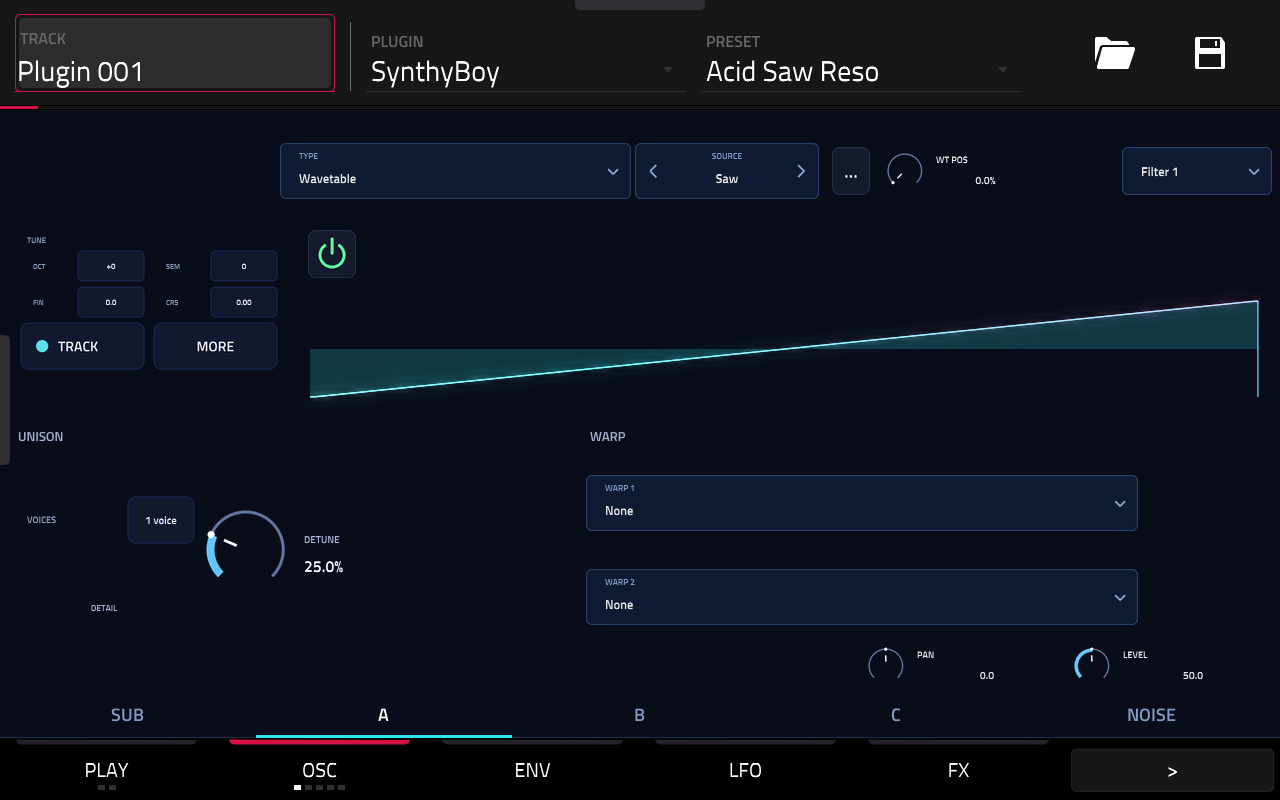
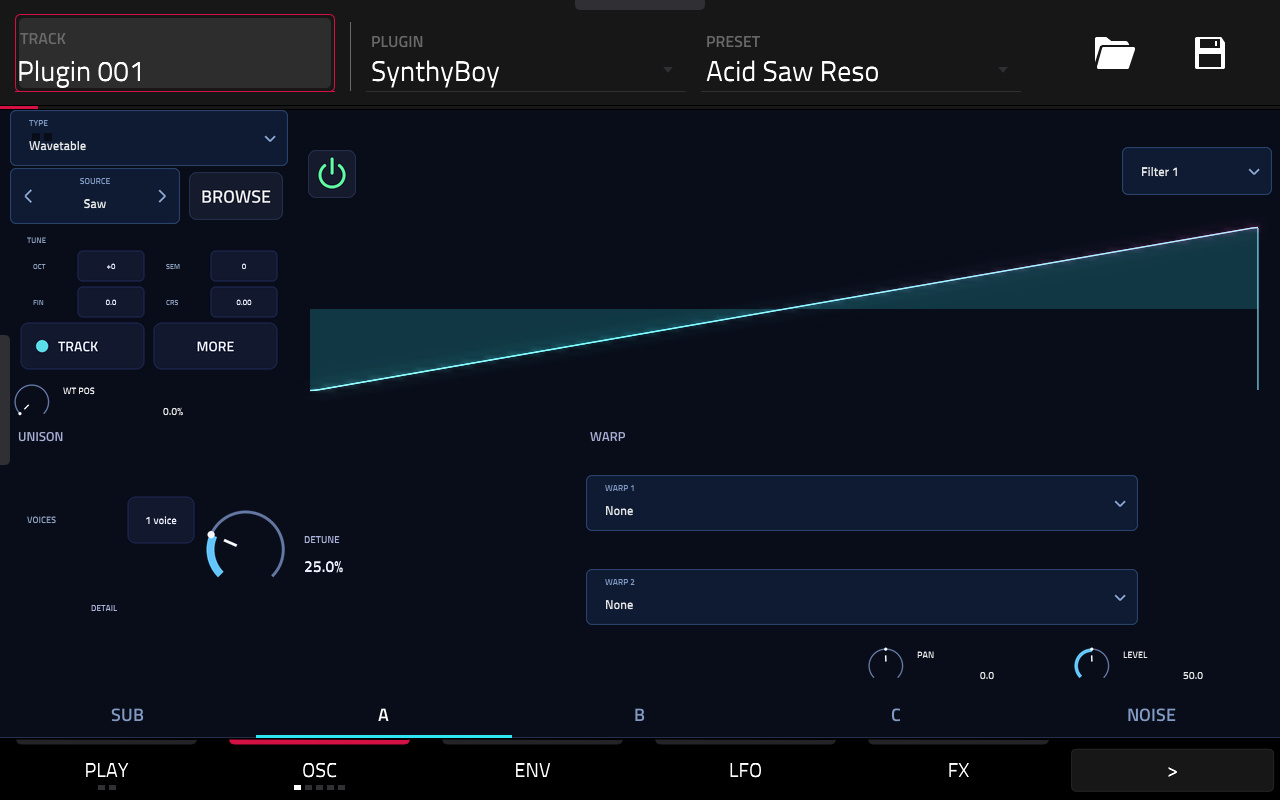
Give oscillator scopes a larger plot and expose the native Browse action on XL

diff --git a/docs/ui-components/native-katalogus.html b/docs/ui-components/native-katalogus.html
@@ -6,9 +6,9 @@
 <p>Képernyőnként egy aktuális kép. Régi referencia csak a még nyitott átállásoknál szerepel.</p>
 <section id="play"><h2>Play</h2><p>MPC Key 61 hardverfelvétel · 027c5fa8</p><div class="pair"><figure><a href="../screens/play.jpg?v=e290ac2519af"><img src="../screens/play.jpg?v=e290ac2519af" alt="Play · aktuális előnézet"></a><figcaption>Play · aktuális előnézet</figcaption></figure></div></section>
 <section id="macros"><h2>Macros</h2><p>MPC Key 61 hardverfelvétel · 027c5fa8</p><div class="pair"><figure><a href="../screens/macros.jpg?v=5f63bdc08e80"><img src="../screens/macros.jpg?v=5f63bdc08e80" alt="Macros · aktuális előnézet"></a><figcaption>Macros · aktuális előnézet</figcaption></figure></div></section>
-<section id="osc_a"><h2>Osc A</h2><p>MPC XL hardverfelvétel · Acid Saw Reso · TUI 9e935c2a39dc</p><div class="pair"><figure><a href="../screens/osc_a.jpg?v=a46313e48b12"><img src="../screens/osc_a.jpg?v=a46313e48b12" alt="Osc A · aktuális előnézet"></a><figcaption>Osc A · aktuális előnézet</figcaption></figure></div></section>
-<section id="osc_b"><h2>Osc B</h2><p>MPC Key 61 hardverfelvétel · 027c5fa8</p><div class="pair"><figure><a href="../screens/osc_b.jpg?v=2b7532723fa7"><img src="../screens/osc_b.jpg?v=2b7532723fa7" alt="Osc B · aktuális előnézet"></a><figcaption>Osc B · aktuális előnézet</figcaption></figure></div></section>
-<section id="osc_c"><h2>Osc C</h2><p>MPC Key 61 hardverfelvétel · 027c5fa8</p><div class="pair"><figure><a href="../screens/osc_c.jpg?v=79efc4fa90ec"><img src="../screens/osc_c.jpg?v=79efc4fa90ec" alt="Osc C · aktuális előnézet"></a><figcaption>Osc C · aktuális előnézet</figcaption></figure></div></section>
+<section id="osc_a"><h2>Osc A</h2><p>MPC XL hardverfelvétel · Acid Saw Reso · TUI cf71f101c3ea</p><div class="pair"><figure><a href="../screens/osc_a.jpg?v=1a08b8b259b6"><img src="../screens/osc_a.jpg?v=1a08b8b259b6" alt="Osc A · aktuális előnézet"></a><figcaption>Osc A · aktuális előnézet</figcaption></figure></div></section>
+<section id="osc_b"><h2>Osc B</h2><p>MPC XL hardverfelvétel · Acid Saw Reso · TUI cf71f101c3ea</p><div class="pair"><figure><a href="../screens/osc_b.jpg?v=eeb14d57a498"><img src="../screens/osc_b.jpg?v=eeb14d57a498" alt="Osc B · aktuális előnézet"></a><figcaption>Osc B · aktuális előnézet</figcaption></figure></div></section>
+<section id="osc_c"><h2>Osc C</h2><p>MPC XL hardverfelvétel · Acid Saw Reso · TUI cf71f101c3ea</p><div class="pair"><figure><a href="../screens/osc_c.jpg?v=bf72a23399e5"><img src="../screens/osc_c.jpg?v=bf72a23399e5" alt="Osc C · aktuális előnézet"></a><figcaption>Osc C · aktuális előnézet</figcaption></figure></div></section>
 <section id="sub"><h2>Sub</h2><p>MPC Key 61 hardverfelvétel · 027c5fa8</p><div class="pair"><figure><a href="../screens/sub.jpg?v=33b9416ded14"><img src="../screens/sub.jpg?v=33b9416ded14" alt="Sub · aktuális előnézet"></a><figcaption>Sub · aktuális előnézet</figcaption></figure></div></section>
 <section id="noise"><h2>Noise</h2><p>MPC Key 61 hardverfelvétel · 027c5fa8</p><div class="pair"><figure><a href="../screens/noise.jpg?v=17b961b6da28"><img src="../screens/noise.jpg?v=17b961b6da28" alt="Noise · aktuális előnézet"></a><figcaption>Noise · aktuális előnézet</figcaption></figure></div></section>
 <section id="env"><h2>Env</h2><p>MPC Key 61 hardverfelvétel · 027c5fa8</p><div class="pair"><figure><a href="../screens/env.jpg?v=74013395b17d"><img src="../screens/env.jpg?v=74013395b17d" alt="Env · aktuális előnézet"></a><figcaption>Env · aktuális előnézet</figcaption></figure></div></section>

diff --git a/scripts/tests/test_native_osc_routing.py b/scripts/tests/test_native_osc_routing.py
@@ -427,7 +427,7 @@ class TestNativeOscRouting(unittest.TestCase):
             self.assertIn("oscNativeRoutingLayer", widgets[OSC_ROUTING_CONTROL_NAME]["componentData"]["type"])
             self.assertEqual(widgets[OSC_ROUTING_CONTROL_NAME]["bounds"]["bounds"], "%d %d %d %d" % STANDALONE_COMPACT_OSC_ROUTING_RECT)
             self.assertEqual(widgets["Osc Native Power"]["componentData"]["type"], "oscNativePowerLayer")
-            self.assertEqual(widgets["Osc Native Power"]["bounds"]["bounds"], "12 116 352 56")
+            self.assertEqual(widgets["Osc Native Power"]["bounds"]["bounds"], "12 36 352 136")
             self.assertEqual(widgets["Osc Native Power"]["bounds"]["additionalInvalidatingHandles"], ["NonZero/Parameter 2886"])
             self.assertEqual(widgets["Osc Native Settings"]["bounds"]["additionalInvalidatingHandles"], ["NonZero/Parameter 2986"])
 
@@ -510,7 +510,7 @@ class TestNativeOscRouting(unittest.TestCase):
                 data = power["componentData"]["data"]
                 self.assertEqual((data["buttonId"], data["numButtonsInGroup"], data["gestureBehaviour"]), (1, 1, "Instant"))
                 self.assertEqual(power["handle remapping"]["map"], [{"key": "Data", "value": f"Parameter {2972 + i}"}])
-                self.assertEqual(power["bounds"]["bounds"], f"{288 if i in (1, 2, 3) else 0} 0 64 56")
+                self.assertEqual(power["bounds"]["bounds"], ("288 0 64 56" if i in (1, 2, 3) else "0 80 64 56"))
                 self.assertEqual(power["bounds"]["additionalInvalidatingHandles"], [f"IndexedEnabling/{i}/5/Parameter 2884"])
                 with Image.open(skins / data["onImage"]) as on, Image.open(skins / data["offImage"]) as off:
                     self.assertEqual((on.size, off.size), ((64, 56), (64, 56)))
@@ -577,11 +577,17 @@ class TestNativeOscRouting(unittest.TestCase):
                             with Image.open(skins / artwork[attr]) as image:
                                 reference = render_active_text_art(field["label"], state, *image.size)
                                 self.assertEqual(image.convert("RGBA").tobytes(), reference.tobytes())
+                    elif field["label"] == "BROWSE":
+                        button, = definition["componentsData"]
+                        self.assertEqual(button["componentData"]["type"], "Button")
+                        self.assertEqual(button["componentData"]["name"], "BROWSE")
                     elif field["kind"] in ("source", "action"):
                         self.assertEqual({a["handler"] for a in definition["actions"]}, {"Toggle Switch"})
                     elif field["kind"] == "table":
-                        self.assertEqual([child["componentData"]["data"]["buttonId"] for child in definition["componentsData"][:3]], [1, 2, 3])
-                        self.assertTrue(all(child["componentData"]["data"]["numButtonsInGroup"] == 4 for child in definition["componentsData"][:3]))
+                        buttons = [child["componentData"]["data"] for child in definition["componentsData"]
+                                   if child["componentData"]["type"] == "Button"]
+                        self.assertEqual([button["buttonId"] for button in buttons], [1, 2, 3])
+                        self.assertTrue(all(button["numButtonsInGroup"] == 4 for button in buttons))
                     else:
                         knob_data = definition["componentsData"][0]["componentData"]["data"]
                         self.assertEqual(knob_data["knobType"], "FilmStrip")

diff --git a/shell-mpc/ui/screen.h b/shell-mpc/ui/screen.h
@@ -191,6 +191,7 @@ public:
             group.set (i, i < n_row_ ? row_[i] : nullptr);
         layout();
     }
+    void setNativeColumn (bool enabled) noexcept { nativeColumn_ = enabled; }
     void setCardOctave (bool on)
     {
         if (inst_ != OscInstance::Sub && inst_ != OscInstance::Noise)
@@ -220,6 +221,20 @@ protected:
     {
         if (n_row_ == 0)
             return;
+        if (nativeColumn_)
+        {
+            selector.place ({ rect_.x, rect_.y - 4, rect_.w, 56 });
+            source.place ({ rect_.x, rect_.y + 54, rect_.w, 56 });
+            if (! source.compact())
+            {
+                const int browseWidth = 104;
+                source.stepper.place ({ source.rect().x, source.rect().y, rect_.w - browseWidth - kGap, source.rect().h });
+                source.dropdown.place ({ source.rect().right() - browseWidth, source.rect().y, browseWidth, source.rect().h });
+            }
+            pos.place ({ rect_.x, rect_.y + 264, rect_.w, 48 });
+            oct.place ({ rect_.x, rect_.y + 110, 64, 48 });
+            return;
+        }
         int fixed[4] = {}, weight[4] = {};
         Rect r[4];
         for (int i = 0; i < n_row_; ++i)
@@ -232,6 +247,7 @@ protected:
             row_[i]->place ({ r[i].x, r[i].y + (r[i].h - h) / 2, r[i].w, h });
         }
     }
+    bool nativeColumn_ = false;
     OscInstance inst_ = OscInstance::A;
     OscKind kind_ = OscKind::Wavetable;
     bool noiseSample_ = false;
@@ -470,7 +486,9 @@ protected:
         if (nativeSelector_)
             selectorArea_ = { rect_.x, rect_.bottom() - 48, W, 48 };
         close.place (selectorArea_);
-        top.place (r[2]);
+        const bool column = nativeSelector_ && hasNativeTune();
+        top.setNativeColumn (column);
+        top.place (column ? Rect { tuneArea().x, rect_.y + 4, tuneArea().w, 314 } : r[2]);
         top.setCardOctave (hasNativeTune());
         panel.setShown (PanelSlot::Fin, ! hasNativeTune());
         const int routeH = nativeRouting_ ? 48 : 56;
@@ -479,7 +497,7 @@ protected:
         show (mix, ! nativeRouting_);
         const int gap = kGap + 4;
         const int panelY = rect_.bottom() - (nativeSelector_ ? 96 : isTab ? 0 : m) - bottomH;
-        const int midY = top.rect().bottom() + gap;
+        const int midY = column ? rect_.y + 28 : top.rect().bottom() + gap;
         display_ = { rect_.x + m, midY, W - 2 * m, std::max (0, panelY - gap - midY) };
         if (hasNativeTune())
         {

diff --git a/scripts/mpc-skin-extras/99_ui_screen_osc_a.py b/scripts/mpc-skin-extras/99_ui_screen_osc_a.py
@@ -54,7 +54,7 @@ REBUILT_NATIVE_COMPONENTS = (
         "id": "osc_power",
         "name": "Osc Native Power",
         "kind": "oscNativePowerLayer",
-        "rect": (12, 116, 352, 56),
+        "rect": (12, 36, 352, 136),
         "role": "Oszcillátor modul POWER ikongomb (#5cff9d aktív, #ff4f4f inaktív)",
         "status": "MEGÉPÍTETT (48x48 px)",
     },
@@ -62,7 +62,7 @@ REBUILT_NATIVE_COMPONENTS = (
         "id": "osc_type",
         "name": "osc1.type",
         "kind": "oscNativeSetting_menu",
-        "rect": (280, 25, 153, 72),
+        "rect": (10, 0, 278, 56),
         "role": "Oszcillátor típus választó (Wavetable, Granular, Sample, Multisample, Spectral)",
         "status": "MEGÉPÍTETT (48 px magasságú menü)",
     },
@@ -70,7 +70,7 @@ REBUILT_NATIVE_COMPONENTS = (
         "id": "osc_source_table",
         "name": "osc1.wavetable.table / SOURCE",
         "kind": "oscNativeSetting_table",
-        "rect": (437, 25, 382, 72),
+        "rect": (10, 58, 170, 56),
         "role": "Hullámtábla / forrás léptető gombok és lista megnyitó",
         "status": "MEGÉPÍTETT (léptető nyilak + popup lista)",
     },
@@ -78,7 +78,7 @@ REBUILT_NATIVE_COMPONENTS = (
         "id": "osc_wt_pos",
         "name": "osc1.wavetable.pos",
         "kind": "oscNativeSetting_dial_uni_side",
-        "rect": (883, 22, 157, 78),
+        "rect": (10, 268, 278, 48),
         "role": "Hullámtábla pozíció szabályozó tárcsa (WT POS / SCAN / POSITION)",
         "status": "MEGÉPÍTETT (natív unipoláris tárcsa felirattal)",
     },

diff --git a/shell-mpc/overlay/osc_page.h b/shell-mpc/overlay/osc_page.h
@@ -120,7 +120,7 @@ public:
         if (! r.empty() && display_.valid())
         {
             const bool nativeRootPower = osc_.topPage() == 0 && osc_.full().hasNativePower();
-            const std::array<ui::Rect, 3> header { powerArea(), inPlay_ ? expandedCloseRect() : ui::Rect {}, ui::Rect {} };
+            const std::array<ui::Rect, 3> header { powerArea(), inPlay_ ? expandedCloseRect() : ui::Rect {}, osc_.full().isNativeRoutingActive() ? routingArea() : ui::Rect {} };
             display_.draw (sb, r, false, osc_.plotArea(), nativeRootPower ? &header : nullptr);
             display_.draw (sb, r, true, osc_.plotArea());
             if (marks_.any())
@@ -131,6 +131,8 @@ public:
         osc_.clearNativeDetailPixels (sb);
         if (osc_.topPage() == 0 && osc_.full().hasNativePower())
             ui::clearNativeCell (sb, powerArea());
+        if (! inPlay_ && osc_.topPage() == 0 && osc_.full().isNativeRoutingActive())
+            ui::clearNativeCell (sb, routingArea());
         if (inPlay_ && osc_.topPage() == 0)
             ui::clearNativeCell (sb, expandedCloseRect());
     }

diff --git a/scripts/mpc-skin-extras/56_osc_power.py b/scripts/mpc-skin-extras/56_osc_power.py
@@ -16,7 +16,7 @@ from native_icon_button import icon_button
 from native_ui_params import OSC_POWER, OSC_SOURCE, OSC_VISIBILITY, mixer_peek_index
 
 # OscillatorFullScreen::layout, tab-local coordinates.
-POWER_RECT = (12, 116, 352, 56)
+POWER_RECT = (12, 36, 352, 136)
 POWER_ON, POWER_OFF = "osc_native_power_on.png", "osc_native_power_off.png"
 
 
@@ -44,7 +44,7 @@ def apply(tui, qlinks, ctx):
             }},
             "handle remapping": {"version": 1, "map": [{"key": "Data", "value": f"Parameter {base + OSC_POWER + source}"}]},
             "bounds": {"version": 2, "acceptsHWFocus": "Yes", "showWhenDataModelInvalid": "Hide",
-                       "whenVisible": "Always", "boundsType": "Absolute", "bounds": f"{x} 0 64 56",
+                       "whenVisible": "Always", "boundsType": "Absolute", "bounds": f"{x} {0 if x else 80} 64 56",
                        "additionalInvalidatingHandles": [
                            f"IndexedEnabling/{source}/{len(OSC_TAB_NAMES)}/Parameter {base + OSC_SOURCE}",
                        ]},

diff --git a/scripts/tests/test_ui_screen_osc_a.py b/scripts/tests/test_ui_screen_osc_a.py
@@ -214,7 +214,11 @@ class TestOscAScreen(unittest.TestCase):
         self.assertEqual({action["additionalData"] for action in trigger["actions"]}, {"oscWarpChoices"})
         for action in trigger["actions"]:
             self.assertEqual(action["handleName"], "Data")
-        self.assertFalse(definitions["oscNativeSettingWarpChoiceOff"]["actions"])
+        off_controls = [definition for name, definition in definitions.items()
+                        if name.startswith("oscNativeSettingWarpChoice") and name.endswith("Off")]
+        self.assertTrue(off_controls)
+        for control in off_controls:
+            self.assertFalse(control["actions"])
         detail = definitions["oscDetailTile"]["componentsData"]
         self.assertTrue(any(item["componentData"]["type"] == "oscNativeSettingWarpChoice" for item in detail))
 

diff --git a/scripts/tests/test_ui_screen_osc_b.py b/scripts/tests/test_ui_screen_osc_b.py
@@ -130,7 +130,7 @@ class TestUiScreenOscB(unittest.TestCase):
         self.assertEqual(child_by_name["Osc Native Pan"]["bounds"]["bounds"], "864 532 202 48")
         self.assertEqual(child_by_name["Osc Native Level"]["bounds"]["bounds"], "1070 532 202 48")
         self.assertEqual(child_by_name["Osc Native Routing"]["bounds"]["bounds"], "1122 37 150 48")
-        self.assertEqual(child_by_name["Osc Native Power"]["bounds"]["bounds"], "12 116 352 56")
+        self.assertEqual(child_by_name["Osc Native Power"]["bounds"]["bounds"], "12 36 352 136")
 
     def test_osc_b_bindings_isolation(self):
         defs = {d["key"]: d["value"] for d in self.tui["pageData"]["componentDefinitions"]["localComponentDefinitions"]}

diff --git a/scripts/mpc-skin-extras/57_osc_settings.py b/scripts/mpc-skin-extras/57_osc_settings.py
@@ -150,7 +150,7 @@ def _control(kind, side, skins_dir=None, size=None, caption=""):
     if kind == "table":
         return command_stepper_definition(skins_dir, (width, height), caption)
     if kind == "action" and caption == "BROWSE":
-        return _definition([action_button(skins_dir, caption, (0, 0, width, height), "Data", text="…")])
+        return _definition([action_button(skins_dir, caption, (0, 0, width, height), "Data", text=caption)])
     if kind == "action":
         return _definition([_label("Name", (0.04, 0.04, 0.92, 0.92), height=_ui_style.size('screen.osc_settings.control.height.3'))], "Toggle Switch")
     raise ValueError("Unknown OSC control " + kind)

diff --git a/scripts/tests/test_ui_screen_osc_c.py b/scripts/tests/test_ui_screen_osc_c.py
@@ -95,7 +95,7 @@ class OscCScreenTests(unittest.TestCase):
         self.assertEqual(kid_names["Osc Native Routing"]["bounds"]["bounds"], "1122 37 150 48")
 
         self.assertIn("Osc Native Power", kid_names)
-        self.assertEqual(kid_names["Osc Native Power"]["bounds"]["bounds"], "12 116 352 56")
+        self.assertEqual(kid_names["Osc Native Power"]["bounds"]["bounds"], "12 36 352 136")
 
         self.assertIn("Osc Native Settings", kid_names)
         self.assertEqual(kid_names["Osc Native Settings"]["bounds"]["bounds"], "0 0 1280 628")
